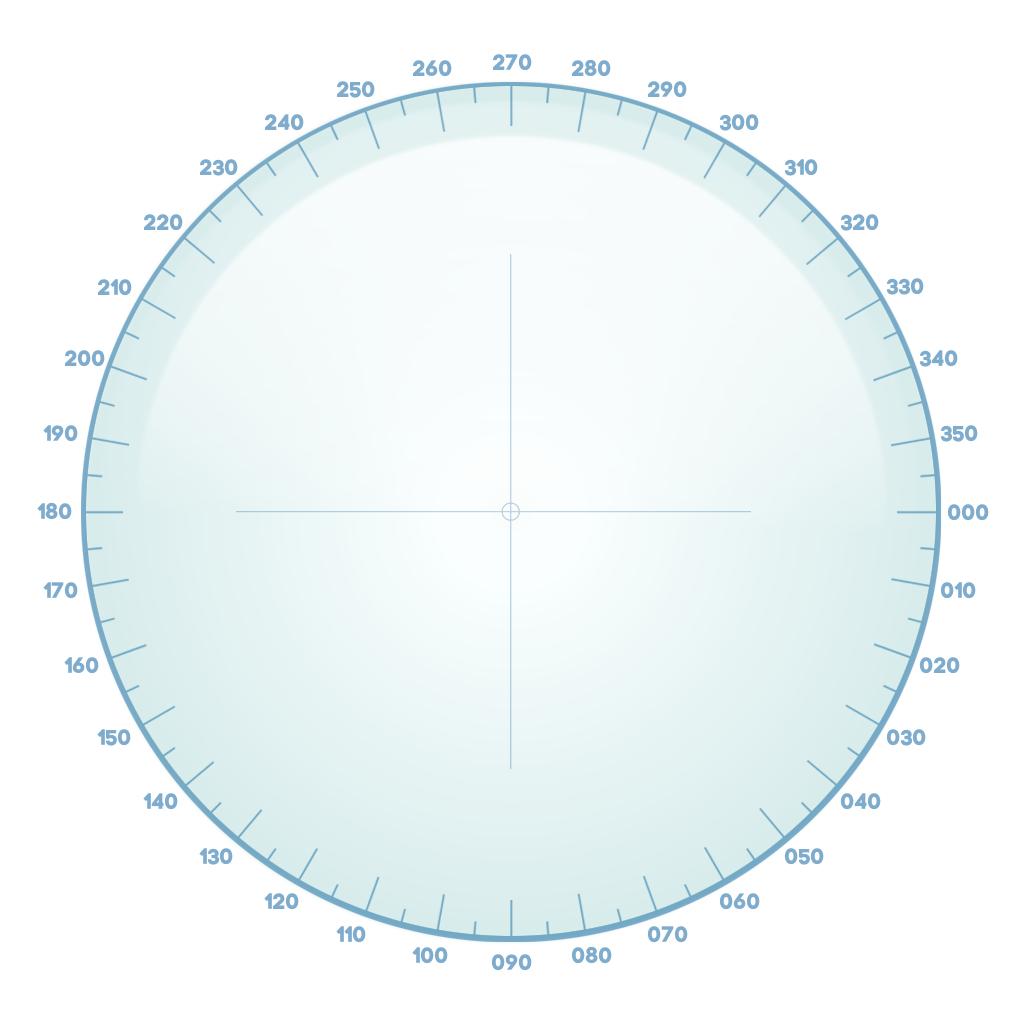
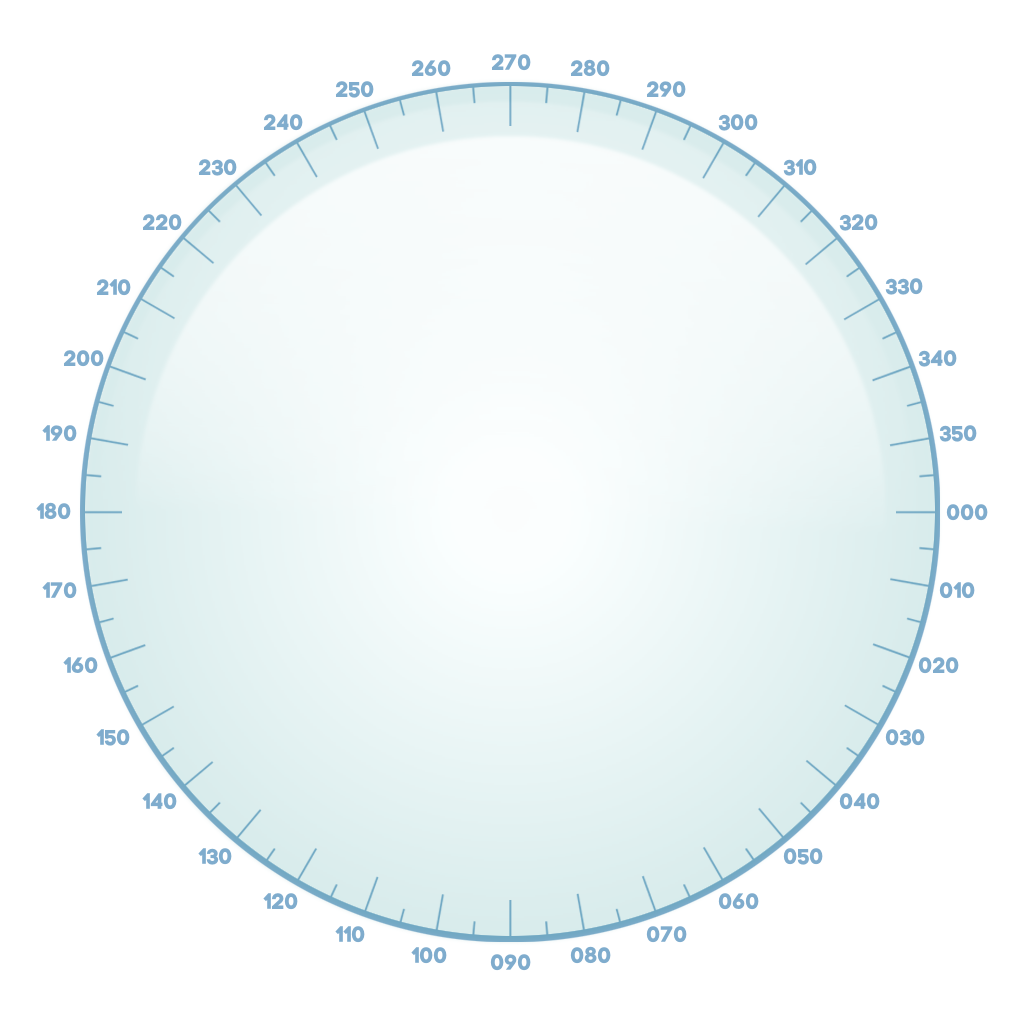
Progress on docking interface (nudge controls), focus sonar on the center of the submarine instead of the nav terminal

diff --git a/Barotrauma/BarotraumaClient/Source/Items/Components/Machines/Steering.cs b/Barotrauma/BarotraumaClient/Source/Items/Components/Machines/Steering.cs
@@ -25,6 +25,8 @@ namespace Barotrauma.Items.Components
         };
         private GUITickBox maintainPosTickBox, levelEndTickBox, levelStartTickBox;
 
+        private GUIComponent statusContainer, dockingContainer;
+
         private GUIFrame autoPilotControlsDisabler;
 
         private GUIComponent steerArea;
@@ -78,7 +80,7 @@ namespace Barotrauma.Items.Components
                 Stretch = true
             };
 
-            var statusContainer = new GUIFrame(new RectTransform(new Vector2(0.3f, 0.25f), GuiFrame.RectTransform, Anchor.BottomLeft)
+            statusContainer = new GUIFrame(new RectTransform(new Vector2(0.3f, 0.25f), GuiFrame.RectTransform, Anchor.BottomLeft)
                 { MinSize = new Point(150, 0), AbsoluteOffset = new Point((int)(viewSize * 0.9f), 0) }, "SonarFrame");
             var paddedStatusContainer = new GUILayoutGroup(new RectTransform(new Vector2(0.9f, 0.9f), statusContainer.RectTransform, Anchor.Center))
             {
@@ -107,7 +109,9 @@ namespace Barotrauma.Items.Components
                     AutoPilot = box.Selected;
                     if (AutoPilot && MaintainPos)
                     {
-                        posToMaintain = controlledSub == null ? item.WorldPosition : controlledSub.WorldPosition;
+                        posToMaintain = controlledSub != null ?
+                            controlledSub.WorldPosition :
+                            item.Submarine == null ? item.WorldPosition : item.Submarine.WorldPosition;
                     }
                     unsentChanges = true;
                     user = Character.Controlled;
@@ -278,6 +282,34 @@ namespace Barotrauma.Items.Components
 
             steerArea = new GUICustomComponent(new RectTransform(new Point(viewSize), GuiFrame.RectTransform, Anchor.CenterLeft),
                 (spriteBatch, guiCustomComponent) => { DrawHUD(spriteBatch, guiCustomComponent.Rect); }, null);
+
+            //docking interface ----------------------------------------------------
+            dockingContainer = new GUIFrame(new RectTransform(new Vector2(0.3f, 0.25f), GuiFrame.RectTransform, Anchor.BottomLeft)
+            { MinSize = new Point(150, 0), AbsoluteOffset = new Point((int)(viewSize * 0.9f), 0) }, style: null);
+            var paddedDockingContainer = new GUIFrame(new RectTransform(new Vector2(0.9f, 0.9f), dockingContainer.RectTransform, Anchor.Center), style: null);
+
+            var dockButton = new GUIButton(new RectTransform(new Vector2(0.3f, 0.3f), paddedDockingContainer.RectTransform, Anchor.Center), "Dock");
+
+            new GUIButton(new RectTransform(new Vector2(0.3f, 0.3f), paddedDockingContainer.RectTransform, Anchor.CenterLeft), "<")
+            {
+                OnClicked = NudgeButtonClicked,
+                UserData = -Vector2.UnitX
+            };
+            new GUIButton(new RectTransform(new Vector2(0.3f, 0.3f), paddedDockingContainer.RectTransform, Anchor.CenterRight), ">")
+            {
+                OnClicked = NudgeButtonClicked,
+                UserData = Vector2.UnitX
+            };
+            new GUIButton(new RectTransform(new Vector2(0.3f, 0.3f), paddedDockingContainer.RectTransform, Anchor.TopCenter), "U")
+            {
+                OnClicked = NudgeButtonClicked,
+                UserData = Vector2.UnitY
+            };
+            new GUIButton(new RectTransform(new Vector2(0.3f, 0.3f), paddedDockingContainer.RectTransform, Anchor.BottomCenter), "D")
+            {
+                OnClicked = NudgeButtonClicked,
+                UserData = -Vector2.UnitY
+            };
         }
 
         /// <summary>
@@ -431,6 +463,9 @@ namespace Barotrauma.Items.Components
                 }
             }
 
+            dockingContainer.Visible = DockingModeEnabled;
+            statusContainer.Visible = !DockingModeEnabled;
+
             autoPilotControlsDisabler.Visible = !AutoPilot;
 
             if (voltage < minVoltage && currPowerConsumption > 0.0f)
@@ -472,9 +507,9 @@ namespace Barotrauma.Items.Components
                     inputPos.Y = -inputPos.Y;
                     if (AutoPilot && !LevelStartSelected && !LevelEndSelected)
                     {
-                        posToMaintain = controlledSub == null ? 
-                            item.WorldPosition : 
-                            controlledSub.WorldPosition + (sonar.DisplayOffset * sonar.Zoom) + inputPos / sonar.DisplayRadius * sonar.Range / sonar.Zoom;                        
+                        posToMaintain = controlledSub != null ? 
+                            controlledSub.WorldPosition + (sonar.DisplayOffset * sonar.Zoom) + inputPos / sonar.DisplayRadius * sonar.Range / sonar.Zoom :
+                            item.Submarine == null ? item.WorldPosition : item.Submarine.WorldPosition;
                     }
                     else
                     {
@@ -568,6 +603,26 @@ namespace Barotrauma.Items.Components
                     }
                 }
             }
+        }
+
+        private bool NudgeButtonClicked(GUIButton btn, object userdata)
+        {
+            if (!MaintainPos)
+            {
+                posToMaintain = item.Submarine.WorldPosition;
+            }
+            MaintainPos = true;
+            if (userdata is Vector2)
+            {
+                Sonar sonar = item.GetComponent<Sonar>();
+                Vector2 nudgeAmount = (Vector2)userdata;
+                if (sonar != null)
+                {
+                    nudgeAmount *= sonar == null ? 500.0f : 500.0f / sonar.Zoom;
+                }
+                PosToMaintain += nudgeAmount;
+            }
+            return true;
         }
 
         public void ClientWrite(Lidgren.Network.NetBuffer msg, object[] extraData = null)

diff --git a/Barotrauma/BarotraumaClient/Source/Items/Components/Machines/Sonar.cs b/Barotrauma/BarotraumaClient/Source/Items/Components/Machines/Sonar.cs
@@ -233,8 +233,7 @@ namespace Barotrauma.Items.Components
                 return;
             }
 
-            Vector2 transducerCenter = UseTransducers ? GetTransducerCenter() : item.WorldPosition;
-            transducerCenter += DisplayOffset;
+            Vector2 transducerCenter = GetTransducerPos() + DisplayOffset;
 
             if (Level.Loaded != null)
             {
@@ -291,15 +290,15 @@ namespace Barotrauma.Items.Components
                 float dockingDist = Vector2.Distance(steering.DockingSource.Item.WorldPosition, steering.DockingTarget.Item.WorldPosition);
                 if (prevDockingDist > steering.DockingAssistThreshold && dockingDist <= steering.DockingAssistThreshold)
                 {
+                    zoom = Math.Max(zoom, MathHelper.Lerp(MinZoom, MaxZoom, 0.25f));
+                }
+                else if (prevDockingDist > steering.DockingAssistThreshold * 0.75f && dockingDist <= steering.DockingAssistThreshold * 0.75f)
+                {
                     zoom = Math.Max(zoom, MathHelper.Lerp(MinZoom, MaxZoom, 0.5f));
                 }
-                else if (prevDockingDist > steering.DockingAssistThreshold * 0.6f && dockingDist <= steering.DockingAssistThreshold * 0.6f)
+                else if (prevDockingDist > steering.DockingAssistThreshold * 0.5f && dockingDist <= steering.DockingAssistThreshold * 0.5f)
                 {
-                    zoom = Math.Max(zoom, MathHelper.Lerp(MinZoom, MaxZoom, 0.75f));
-                }
-                else if (prevDockingDist > steering.DockingAssistThreshold * 0.3f && dockingDist <= steering.DockingAssistThreshold * 0.3f)
-                {
-                    zoom = Math.Max(zoom, MaxZoom);
+                    zoom = Math.Max(zoom, MathHelper.Lerp(MinZoom, MaxZoom, 0.25f));
                 }
                 prevDockingDist = Math.Min(dockingDist, prevDockingDist);
             }
@@ -378,7 +377,7 @@ namespace Barotrauma.Items.Components
                 }
             }
 
-            Vector2 transducerCenter = UseTransducers && connectedTransducers.Count > 0 ? GetTransducerCenter() : item.WorldPosition;
+            Vector2 transducerCenter = GetTransducerPos();
 
             if (item.Submarine != null && !DetectSubmarineWalls)
             {
@@ -606,13 +605,16 @@ namespace Barotrauma.Items.Components
 
             Vector2 dockingDir = sourcePortPos - targetPortPos;
             Vector2 normalizedDockingDir = Vector2.Normalize(dockingDir);
-            if (steering.DockingSource.IsHorizontal)
+            if (!DynamicDockingIndicator)
             {
-                normalizedDockingDir = new Vector2(Math.Sign(normalizedDockingDir.X), 0.0f);
-            }
-            else
-            {
-                normalizedDockingDir = new Vector2(0.0f, Math.Sign(normalizedDockingDir.Y));
+                if (steering.DockingSource.IsHorizontal)
+                {
+                    normalizedDockingDir = new Vector2(Math.Sign(normalizedDockingDir.X), 0.0f);
+                }
+                else
+                {
+                    normalizedDockingDir = new Vector2(0.0f, Math.Sign(normalizedDockingDir.Y));
+                }
             }
 
             Color staticLineColor = Color.White * 0.8f;

diff --git a/Barotrauma/BarotraumaShared/Source/Items/Components/Machines/Sonar.cs b/Barotrauma/BarotraumaShared/Source/Items/Components/Machines/Sonar.cs
@@ -86,6 +86,16 @@ namespace Barotrauma.Items.Components
             get { return zoom; }
         }
 
+        //TODO: remove, only for testing
+#if DEBUG
+        [Serialize(false, false), Editable]
+        public bool DynamicDockingIndicator
+        {
+            get;
+            set;
+        }
+#endif
+
         public override bool IsActive
         {
             get
@@ -262,12 +272,21 @@ namespace Barotrauma.Items.Components
             return TextManager.Get("SubDirOClock").Replace("[dir]", clockDir.ToString());
         }
 
-        private Vector2 GetTransducerCenter()
+        private Vector2 GetTransducerPos()
         {
-            if (!UseTransducers || connectedTransducers.Count == 0) return Vector2.Zero;
+            if (!UseTransducers || connectedTransducers.Count == 0)
+            {
+                //use the position of the sub if the item is static (no body) and inside a sub
+                return item.Submarine != null && item.body == null ? item.Submarine.WorldPosition : item.WorldPosition;
+            }
+
             Vector2 transducerPosSum = Vector2.Zero;
             foreach (ConnectedTransducer transducer in connectedTransducers)
             {
+                if (transducer.Transducer.Item.Submarine != null)
+                {
+                    return transducer.Transducer.Item.Submarine.WorldPosition;
+                }
                 transducerPosSum += transducer.Transducer.Item.WorldPosition;
             }
             return transducerPosSum / connectedTransducers.Count;

diff --git a/Barotrauma/BarotraumaShared/Source/Items/Components/Machines/Steering.cs b/Barotrauma/BarotraumaShared/Source/Items/Components/Machines/Steering.cs
@@ -474,7 +474,9 @@ namespace Barotrauma.Items.Components
                     if (!posToMaintain.HasValue)
                     {
                         unsentChanges = true;
-                        posToMaintain = controlledSub == null ? item.WorldPosition : controlledSub.WorldPosition;
+                        posToMaintain = controlledSub != null ?
+                            controlledSub.WorldPosition :
+                            item.Submarine == null ? item.WorldPosition : item.Submarine.WorldPosition;
                     }
 
                     if (!AutoPilot || !MaintainPos) unsentChanges = true;
